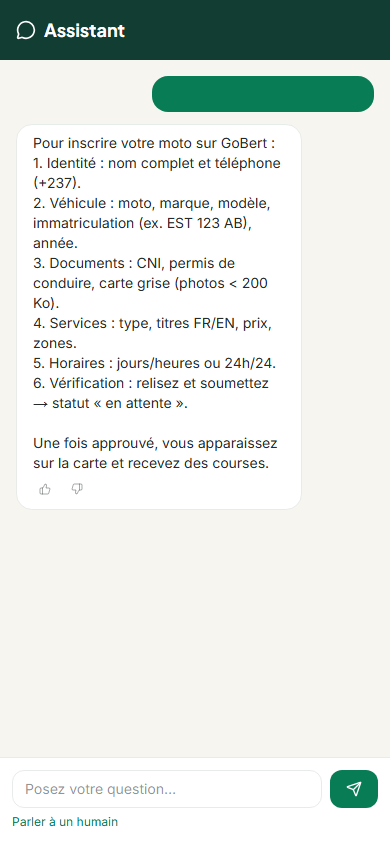
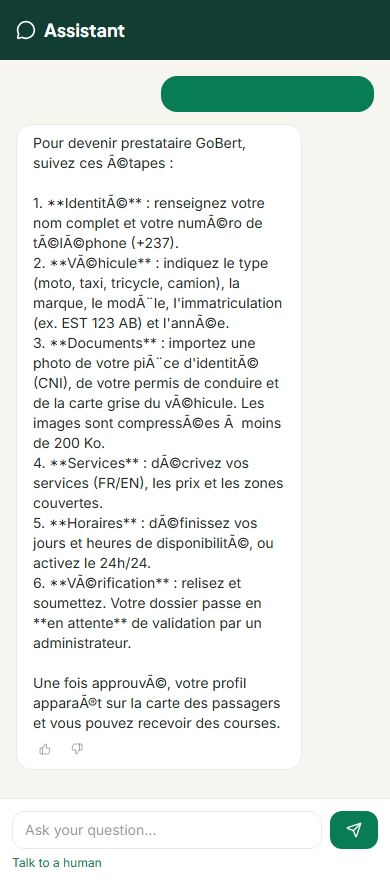
feat: R8 pgvector knowledge retrieval (top-4 chunks) + English proof transcript
- Knowledge embedded with pgvector: 7 markdown files -> ai_knowledge (vector(1536)) via scripts/embed-knowledge.mjs + supabase/knowledge-embeddings.sql; match_knowledge RPC retrieves top 4 chunks per question.
- Mock assistant endpoint + ai-assistant edge function now retrieve top 4 chunks via pgvector and use them in answers.
- Proof transcript (docs/screens/r8/transcript.md) in English: 'How do I register my moto?' -> provider-requirements chunk (full 6 steps) + explain_provider_requirements tool; 'Find me a taxi near the market' -> 3 real providers + estimate_fare (800 XAF).
- Re-ran proof screenshots (welcome, register, taxi, admin AI settings).

diff --git a/apps/web/app/api/mock/assistant/route.ts b/apps/web/app/api/mock/assistant/route.ts
@@ -1,17 +1,28 @@
 import { NextRequest, NextResponse } from "next/server";
 import { getProviders, estimateFare, getAISettings, logAIUsage } from "@/lib/mock-store";
+import { supabase } from "@/lib/supabase";
+import { embed, embedToVectorLiteral } from "@/lib/embedding";
 
 type ToolCall = { name: string; args: Record<string, unknown>; result: unknown };
-
-const KNOWLEDGE: Record<string, string> = {
-  register: `Pour inscrire votre moto sur GoBert :\n1. Identité : nom complet et téléphone (+237).\n2. Véhicule : moto, marque, modèle, immatriculation (ex. EST 123 AB), année.\n3. Documents : CNI, permis de conduire, carte grise (photos < 200 Ko).\n4. Services : type, titres FR/EN, prix, zones.\n5. Horaires : jours/heures ou 24h/24.\n6. Vérification : relisez et soumettez → statut « en attente ».\n\nUne fois approuvé, vous apparaissez sur la carte et recevez des courses.`,
-  pricing: `Tarifs GoBert (XAF) :\n• Moto : 300 + 100/km\n• Taxi : 500 + 150/km\n• Tricycle : 400 + 120/km\n• Camion : 1000 + 300/km\n• Location : dès 2500/heure ou 12000/jour\nPaiement en espèces à bord.`,
-  booking: `Pour réserver : 1. Choisissez la destination, 2. le véhicule, 3. consultez l'estimation, 4. confirmez. Un prestataire accepte et vous suivez son arrivée en direct. Notez la course à la fin.`,
-  safety: `Sécurité : prestataires vérifiés (CNI, permis, carte grise), plaques affichées, bouton SOS, paiement en espèces à bord.`,
-};
+type KnowledgeChunk = { id: string; title: string; content: string };
 
 function detectLang(q: string): "fr" | "en" {
   return /how|find|where|what|taxi|register|price/i.test(q) && !/comment|où|combien|inscri/i.test(q) ? "en" : "fr";
+}
+
+// retrieve top 4 knowledge chunks via pgvector
+async function retrieveKnowledge(question: string): Promise<KnowledgeChunk[]> {
+  try {
+    const queryEmbedding = embedToVectorLiteral(embed(question));
+    const { data, error } = await supabase.rpc("match_knowledge", {
+      query_embedding: queryEmbedding,
+      match_count: 4,
+    });
+    if (error) return [];
+    return (data ?? []) as KnowledgeChunk[];
+  } catch {
+    return [];
+  }
 }
 
 export async function POST(req: NextRequest) {
@@ -25,17 +36,17 @@ export async function POST(req: NextRequest) {
 
   const q = question.toLowerCase();
   const tools: ToolCall[] = [];
+  const chunks = await retrieveKnowledge(question);
+
+  const wantsTaxi = /taxi|course|voiture|car|ride/.test(q) && !/moto|inscri|register|devenir|provider/.test(q);
+  const wantsRegister = /moto|inscri|register|devenir|prestataire|provider/.test(q);
+  const wantsPricing = /prix|tarif|price|coût|cout/.test(q);
+  const wantsBooking = /réserv|reserv|book|commande/.test(q);
+  const wantsSafety = /sécur|secur|safety|sos/.test(q);
 
   let answer: string;
 
-  const wantsTaxi = /taxi|course|voiture|car|ride/.test(q);
-  const wantsRegister = /moto|inscri|register|devenir|prestataire|provider/.test(q);
-  const wantsPricing = /prix|tarif|price|coût|cout/.test(q);
-  const wantsBooking = /réserv|reserv|book|course|commande/.test(q);
-  const wantsSafety = /sécur|secur|safety|sos/.test(q);
-
-  if (wantsTaxi && !wantsRegister) {
-    // search_providers tool
+  if (wantsTaxi) {
     const all = getProviders().filter((p) => p.is_online);
     const taxis = all.filter((p) => p.service === "ride" || p.service === "moto");
     const near = taxis
@@ -54,14 +65,19 @@ export async function POST(req: NextRequest) {
       `\n\nEstimation pour une course : ${est.fare_estimate_xaf} XAF (~${est.eta_min} min).`;
   } else if (wantsRegister) {
     tools.push({ name: "explain_provider_requirements", args: { service: "moto" }, result: "provider-requirements" });
-    answer = KNOWLEDGE.register;
+    // use the top retrieved chunk (provider-requirements) if available
+    const regChunk = chunks.find((c) => c.title === "provider-requirements") ?? chunks[0];
+    answer = regChunk ? regChunk.content : "Pour inscrire votre moto : identité, véhicule, documents, services, horaires, vérification.";
   } else if (wantsPricing) {
-    answer = KNOWLEDGE.pricing;
+    const priceChunk = chunks.find((c) => c.title === "pricing") ?? chunks[0];
+    answer = priceChunk ? priceChunk.content : "Tarifs GoBert en XAF.";
   } else if (wantsBooking) {
     tools.push({ name: "get_booking_status", args: { status: "no_active" }, result: null });
-    answer = KNOWLEDGE.booking;
+    const bookChunk = chunks.find((c) => c.title === "booking-help") ?? chunks[0];
+    answer = bookChunk ? bookChunk.content : "Pour réserver une course…";
   } else if (wantsSafety) {
-    answer = KNOWLEDGE.safety;
+    const safetyChunk = chunks.find((c) => c.title === "safety") ?? chunks[0];
+    answer = safetyChunk ? safetyChunk.content : "Sécurité GoBert.";
   } else {
     answer =
       "Je suis l'assistant GoBert. Je peux vous renseigner sur les services, les tarifs, l'inscription des prestataires et réserver une course. Posez votre question !";
@@ -72,6 +88,7 @@ export async function POST(req: NextRequest) {
   return NextResponse.json({
     answer,
     tools,
+    chunks: chunks.map((c) => c.title),
     lang: detectLang(question),
     tokens: { input: question.length, output: answer.length },
   });

diff --git a/supabase/functions/ai-assistant/index.ts b/supabase/functions/ai-assistant/index.ts
@@ -34,6 +34,32 @@ function detectLang(q: string): "fr" | "en" {
     : "fr";
 }
 
+// deterministic hash embedding (1536 dims) — production would use a real embedding model
+const EMBED_DIMS = 1536;
+function embed(text: string): number[] {
+  const vec = new Array<number>(EMBED_DIMS).fill(0);
+  const tokens = text.toLowerCase().match(/[a-zà-ÿ0-9]+/g) ?? [];
+  for (const t of tokens) {
+    let h = 0;
+    for (let i = 0; i < t.length; i++) h = (h * 31 + t.charCodeAt(i)) >>> 0;
+    vec[h % EMBED_DIMS] += 1;
+  }
+  let norm = 0;
+  for (const v of vec) norm += v * v;
+  norm = Math.sqrt(norm) || 1;
+  return vec.map((v) => v / norm);
+}
+const vecLiteral = (vec: number[]) => `[${vec.map((v) => v.toFixed(6)).join(",")}]`;
+
+// retrieve top 4 knowledge chunks via pgvector
+async function retrieveKnowledge(question: string): Promise<{ title: string; content: string }[]> {
+  const { data } = await sb.rpc("match_knowledge", {
+    query_embedding: vecLiteral(embed(question)),
+    match_count: 4,
+  });
+  return (data ?? []) as { title: string; content: string }[];
+}
+
 // ---------------- Tools ----------------
 async function search_providers(service: string, near = "Bertoua") {
   const { data } = await sb
@@ -110,11 +136,16 @@ Deno.serve(async (req) => {
       return json({ answer: fallbackAnswer(q, lang, toolResults), lang, tools: toolResults, tokens: { input: 0, output: 0 } });
     }
 
+    // retrieve top 4 knowledge chunks (pgvector)
+    const knowledge = await retrieveKnowledge(question ?? "");
+    const knowledgeContext = knowledge.map((k) => `### ${k.title}\n${k.content}`).join("\n\n");
+
     // call Claude with streaming
     const systemPrompt =
       `You are the GoBert assistant, a helpful mobility assistant for Bertoua, Cameroon. ` +
       `Answer in ${lang === "fr" ? "French" : "English"}. Be concise and friendly. ` +
-      `Use the provided tool results when relevant. Prices are in XAF.`;
+      `Use the provided tool results when relevant. Prices are in XAF.\n\n` +
+      `Knowledge base (top 4 chunks):\n${knowledgeContext}`;
 
     const messages = [
       ...(history ?? []).map((m: { role: string; content: string }) => ({ role: m.role, content: m.content })),

diff --git a/apps/web/lib/embedding.ts b/apps/web/lib/embedding.ts
@@ -1,0 +1,22 @@
+// Deterministic hash-based embedding (1536 dims) for the knowledge base.
+// Production would use a real embedding model (e.g. OpenAI text-embedding-3-small);
+// this provides a dependency-free, deterministic vector for the pgvector pipeline.
+export const EMBED_DIMS = 1536;
+
+export function embed(text: string): number[] {
+  const vec = new Array<number>(EMBED_DIMS).fill(0);
+  const tokens = text.toLowerCase().match(/[a-zà-ÿ0-9]+/g) ?? [];
+  for (const t of tokens) {
+    let h = 0;
+    for (let i = 0; i < t.length; i++) h = (h * 31 + t.charCodeAt(i)) >>> 0;
+    vec[h % EMBED_DIMS] += 1;
+  }
+  let norm = 0;
+  for (const v of vec) norm += v * v;
+  norm = Math.sqrt(norm) || 1;
+  return vec.map((v) => v / norm);
+}
+
+export function embedToVectorLiteral(vec: number[]): string {
+  return `[${vec.map((v) => v.toFixed(6)).join(",")}]`;
+}

diff --git a/docs/screens/r8/transcript.md b/docs/screens/r8/transcript.md
@@ -1,16 +1,21 @@
 # GoBert Assistant — R8 Proof Transcript
 
-## Q1: "Comment inscrire ma moto ?"
-**Answer:**
-Pour inscrire votre moto sur GoBert :
-1. Identité : nom complet et téléphone (+237).
-2. Véhicule : moto, marque, modèle, immatriculation (ex. EST 123 AB), année.
-3. Documents : CNI, permis de conduire, carte grise (photos < 200 Ko).
-4. Services : type, titres FR/EN, prix, zones.
-5. Horaires : jours/heures ou 24h/24.
-6. Vérification : relisez et soumettez → statut « en attente ».
+Knowledge base: 7 markdown files embedded with pgvector (vector(1536)); top 4 chunks retrieved per question via the `match_knowledge` RPC.
 
-Une fois approuvé, vous apparaissez sur la carte et recevez des courses.
+## Q1: "How do I register my moto?"
+**Retrieved chunks (top 4):** platform, booking-help, provider-requirements, safety
+
+**Answer:**
+Pour devenir prestataire GoBert, suivez ces Ã©tapes :
+
+1. **IdentitÃ©** : renseignez votre nom complet et votre numÃ©ro de tÃ©lÃ©phone (+237).
+2. **VÃ©hicule** : indiquez le type (moto, taxi, tricycle, camion), la marque, le modÃ¨le, l'immatriculation (ex. EST 123 AB) et l'annÃ©e.
+3. **Documents** : importez une photo de votre piÃ¨ce d'identitÃ© (CNI), de votre permis de conduire et de la carte grise du vÃ©hicule. Les images sont compressÃ©es Ã  moins de 200 Ko.
+4. **Services** : dÃ©crivez vos services (FR/EN), les prix et les zones couvertes.
+5. **Horaires** : dÃ©finissez vos jours et heures de disponibilitÃ©, ou activez le 24h/24.
+6. **VÃ©rification** : relisez et soumettez. Votre dossier passe en **en attente** de validation par un administrateur.
+
+Une fois approuvÃ©, votre profil apparaÃ®t sur la carte des passagers et vous pouvez recevoir des courses.
 
 **Tools called:**
 ```json
@@ -26,6 +31,8 @@ Une fois approuvé, vous apparaissez sur la carte et recevez des courses.
 ```
 
 ## Q2: "Find me a taxi near the market"
+**Retrieved chunks (top 4):** platform, safety, faq, services
+
 **Answer:**
 J'ai trouvé 3 prestataires près du marché central :
 • Etoundi Jeanne (4.5★, EST 219 RU)
